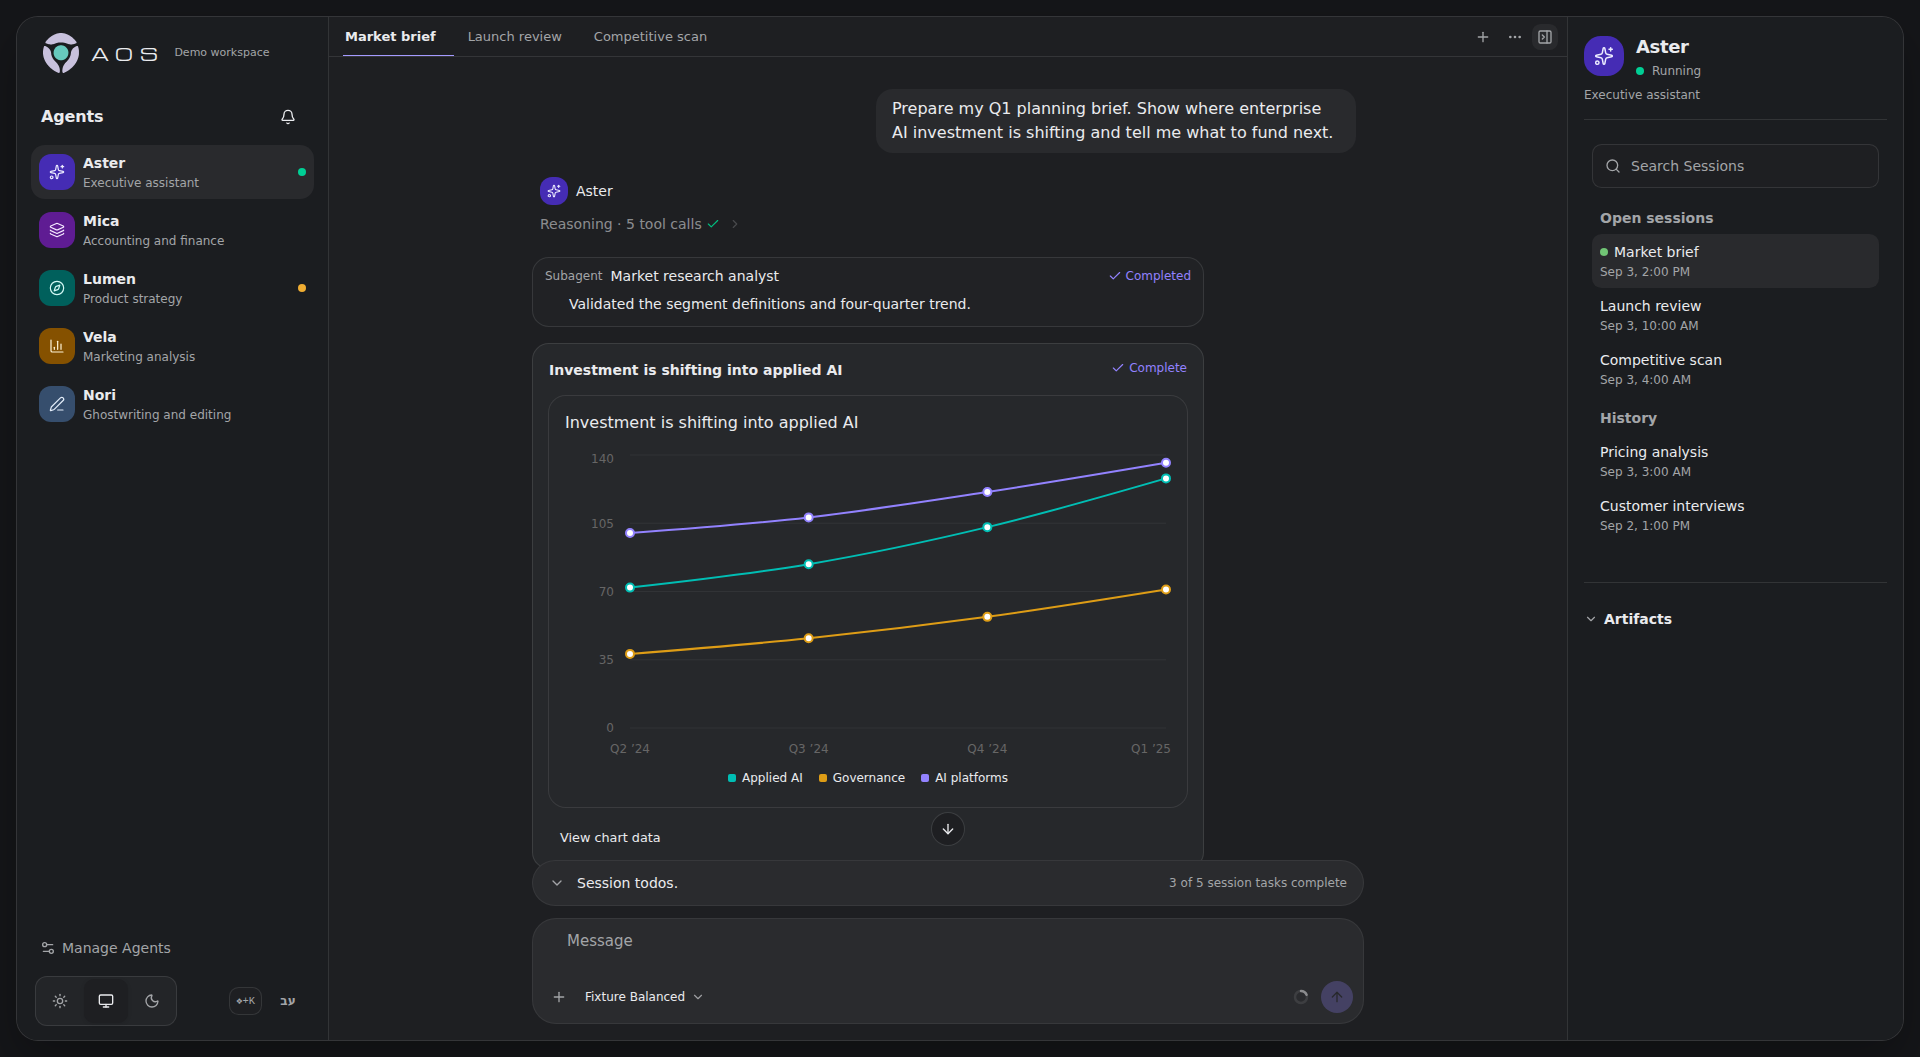
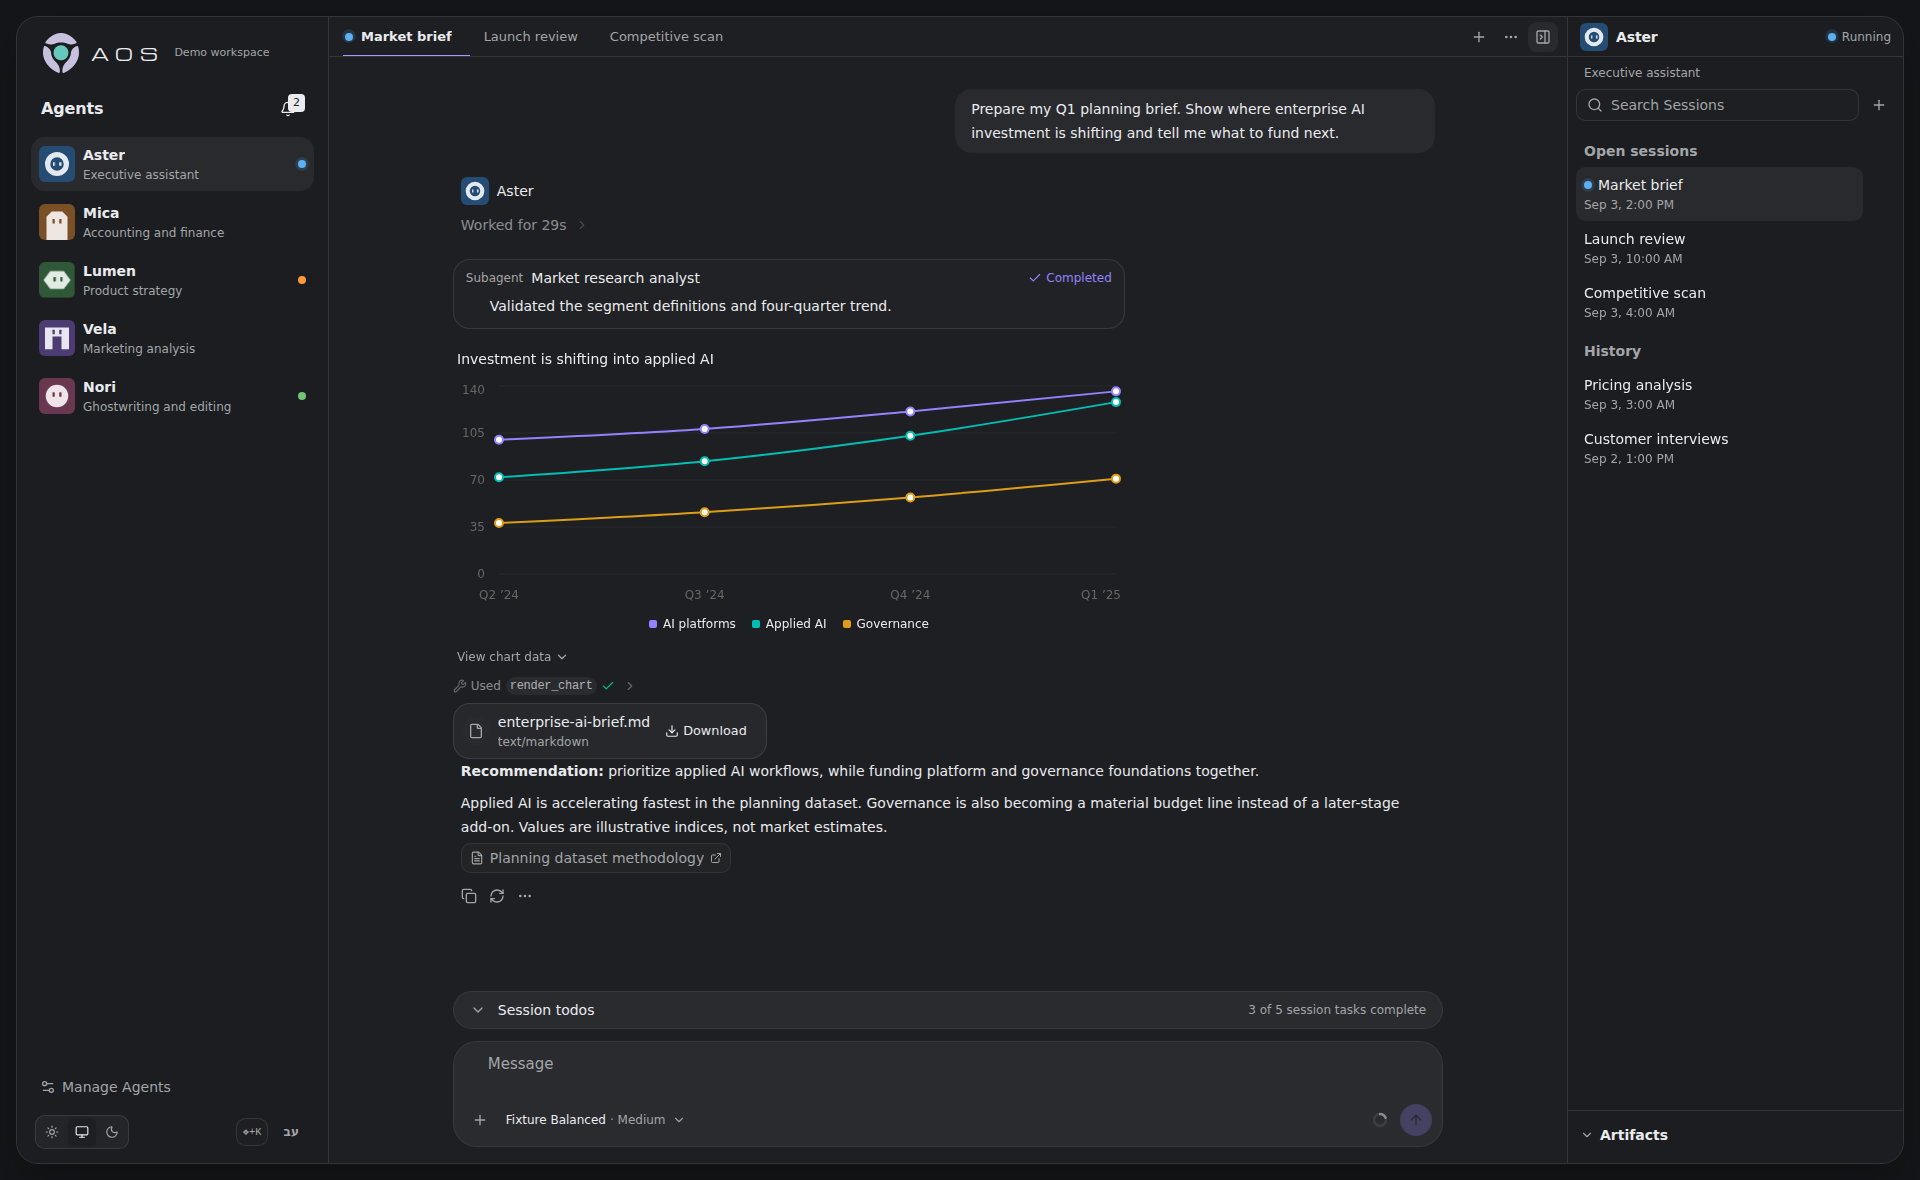
docs(readme): refresh the feature list and the workspace screenshots

diff --git a/README.md b/README.md
@@ -11,7 +11,7 @@
 <picture>
   <source media="(prefers-color-scheme: dark)" srcset="docs/assets/aos-workspace-dark.png">
   <source media="(prefers-color-scheme: light)" srcset="docs/assets/aos-workspace-light.png">
-  <img alt="AOS workspace showing a Q1 planning request, an executive-assistant recommendation, and an investment chart alongside personal business agents and Sessions" src="docs/assets/aos-workspace-light.png">
+  <img alt="AOS workspace: an executive-assistant Agent answers a Q1 planning request with a subagent result, an interactive investment chart, a downloadable brief, and a recommendation, beside the Agent roster, Session tabs, and the Agent's open Sessions and History" src="docs/assets/aos-workspace-light.png">
 </picture>
 
 </div>
@@ -22,22 +22,33 @@ AOS UI complements the [AOS kit](https://github.com/AlmogBaku/aos), which packag
 
 ## What AOS provides
 
-- Agent and Session navigation with provider-verified ownership
-- Streaming chat, queued follow-ups, Stop, active-turn steering, questions,
-  approvals, and attachments where the selected runtime supports them
-- Session rename, archive, and delete with provider-owned read state (Hermes)
+- Agent and Session navigation with provider-verified ownership, Session tabs,
+  and pinned Sessions that always stay open
+- Streaming chat, Stop, active-turn steering, questions, approvals, and
+  attachments where the selected runtime supports them
+- A message queue docked to the composer: reorder queued follow-ups, pull them
+  back into the composer to edit, or send the whole queue as one message
+- Session rename, pin, archive, and delete with provider-owned read state
 - Model and reasoning-effort selection with a context-window gauge where the
   runtime supports them
+- Runtime notices in the thread (for example Hermes goals, loops, heartbeats,
+  and background processes), a reconnecting notice while the connection
+  recovers, and the platform each Session came from
 - Inline image, audio, and video Artifacts; conversation search; slash-command
   suggestions; questions answered from the composer with a free-text "Other";
   deep links to any Session
 - Session-scoped Todos
-- Safe, inspectable rich output including charts, maps, Mermaid, and published Artifacts
+- Safe, inspectable rich output including charts, maps, Mermaid, published
+  Artifacts, and sandboxed MCP Apps
 - A stateless tools MCP server (`bun run tools-mcp:serve`) that gives any
   harness the `render_chart`, `render_map`, and `render_stats` MCP Apps and the
   `present_artifact` tool
-- Activity history and opt-in browser notifications
-- English LTR and Hebrew RTL layouts with keyboard-first navigation
+- Agent icons and visibility management, and `New Agent` creation through a
+  runtime's hidden creator where one is configured
+- Activity history, opt-in browser notifications, optional Web Push, and an
+  installable app window
+- English LTR and Hebrew RTL layouts with keyboard-first navigation and a
+  command palette
 - Optional voice controls (microphone transcription and read-aloud) and restricted guest invitations
 
 The browser has one real runtime: the normalized AOS proxy. The browser speaks
